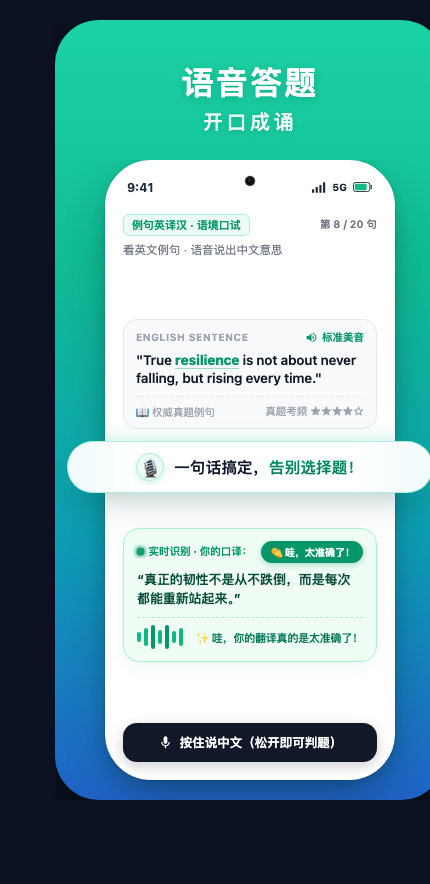
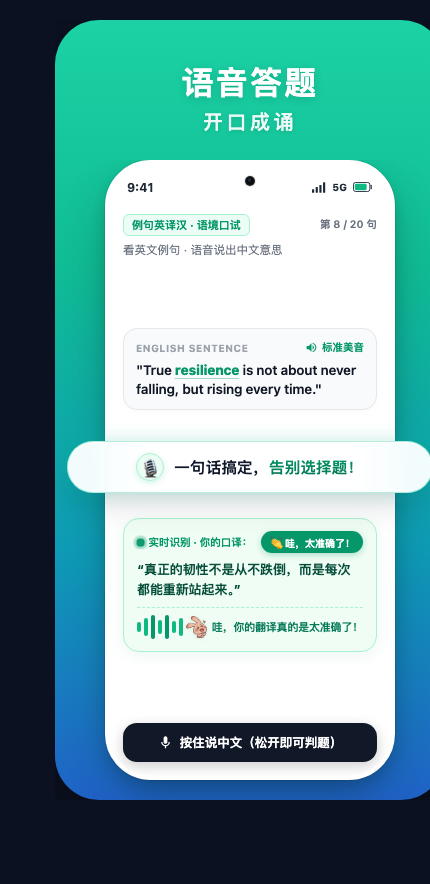
feat: add rabbit surprise asset and update app store preview UI layout

Changed region(s): [[0.2721, 0.5803, 0.8767, 0.733], [0.3023, 0.3665, 0.8465, 0.4887]]

diff --git a/design/ui/app_store_minimal_clean_preview.html b/design/ui/app_store_minimal_clean_preview.html
@@ -715,7 +715,7 @@
       background: #F9FAFB;
       border: 1px solid #E5E7EB;
       border-radius: 14px;
-      padding: 10px 12px 8px 12px;
+      padding: 11px 12px;
       box-shadow: 0 2px 5px rgba(0, 0, 0, 0.02);
     }
     .sentence-en-text {
@@ -1251,10 +1251,6 @@
                   <div class="sentence-en-text">
                     "True <span class="highlight-word">resilience</span> is not about never falling, but rising every time."
                   </div>
-                  <div style="margin-top: 8px; font-size: 10.5px; color: #9CA3AF; border-top: 1px dashed #E5E7EB; padding-top: 6px; display: flex; justify-content: space-between; align-items: center;">
-                    <span>📖 权威真题例句</span>
-                    <span>真题考频 ★★★★☆</span>
-                  </div>
                 </div>
 
                 <!-- 语音作答与识别出的中文翻译结果 -->
@@ -1281,7 +1277,10 @@
                       <div class="wave-bar" style="height: 12px;"></div>
                       <div class="wave-bar" style="height: 18px;"></div>
                     </div>
-                    <span style="font-size: 11px; color: #047857; font-weight: 800; letter-spacing: -0.2px; white-space: nowrap;">✨ 哇，你的翻译真的是太准确了！</span>
+                    <div style="display: flex; align-items: center; gap: 4px;">
+                      <img src="assets/rabbit_surprise.png" style="width: 22px; height: 22px; object-fit: contain; flex-shrink: 0; filter: drop-shadow(0 1px 2px rgba(0,0,0,0.06));" alt="惊喜" />
+                      <span style="font-size: 11px; color: #047857; font-weight: 800; letter-spacing: -0.2px; white-space: nowrap;">哇，你的翻译真的是太准确了！</span>
+                    </div>
                   </div>
                 </div>
 
